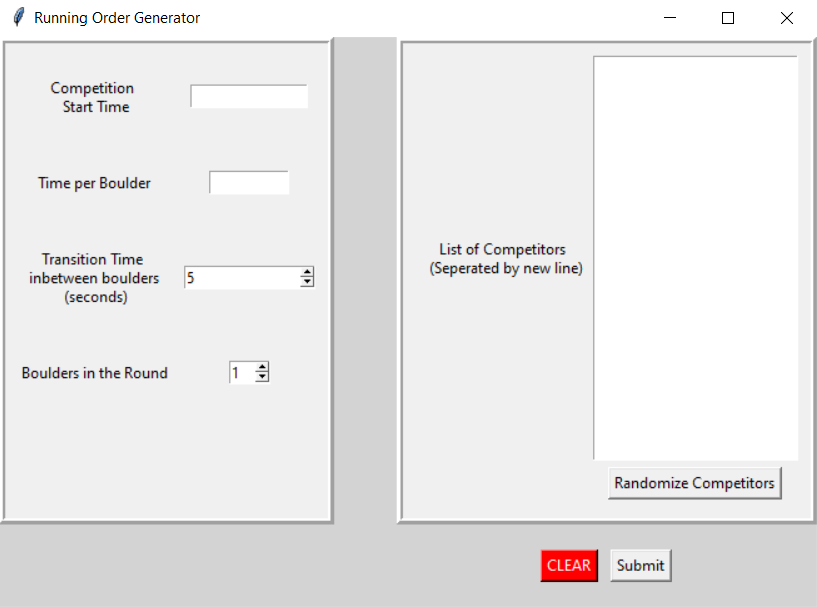
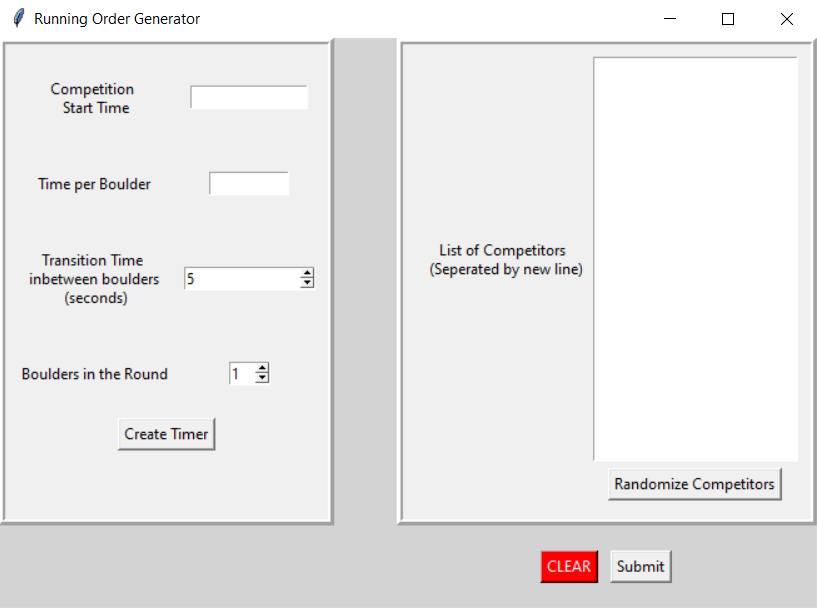
Update README
Added a picture to show the addition of the "Create Timer" button in the first window.

Also changed phrasing to better reflect the functionality.

diff --git a/README.md b/README.md
@@ -26,10 +26,13 @@ List out Competitor names seperated by a new line. Each competitor in the list w
 Shuffles the order of competitiors provided in the Competitor List.
 
 ### Clear
-The clear button will delete the entries in **Competition Start Time**, **Time per Boulder** and **List of Competitors**. It will retain the information in **Transition Time** and **Boulders in the Round**.
+The clear button will delete the entries in **Competition Start Time**, **Time per Boulder** and **List of Competitors**. It will retain the information in **Transition Time** and **Boulders in the Round**, which can be edited if needed.
 
 ### Submit
-Using the information entered, the program will open a new window showing a **Chair Time**, **Start Time** and **End Time**.
+Using the information entered, the program will open a new window showing a **Chair Time**, **Start Time** and **End Time** as well as a few other buttons.
+
+### Create Timer
+Opens the **TimerApp** using **Time per Boulder** and **Transition Time**. This is a shortcut, but runs the same timer as the one found in the *Second Window*.
 
 
 ![second_window](new_secondwindow.PNG)
@@ -41,6 +44,7 @@ Copies all text in the field to the clipboard.
 Create a Comma Seperated Values file containing the information in the text field. This format is accepted by Excel/Sheets.
 
 ### Create Timer
+**TimerApp**
 Opens a standalone timer based on user input from the first window.
 ![timer_window](new_timerwindow.png)
 
